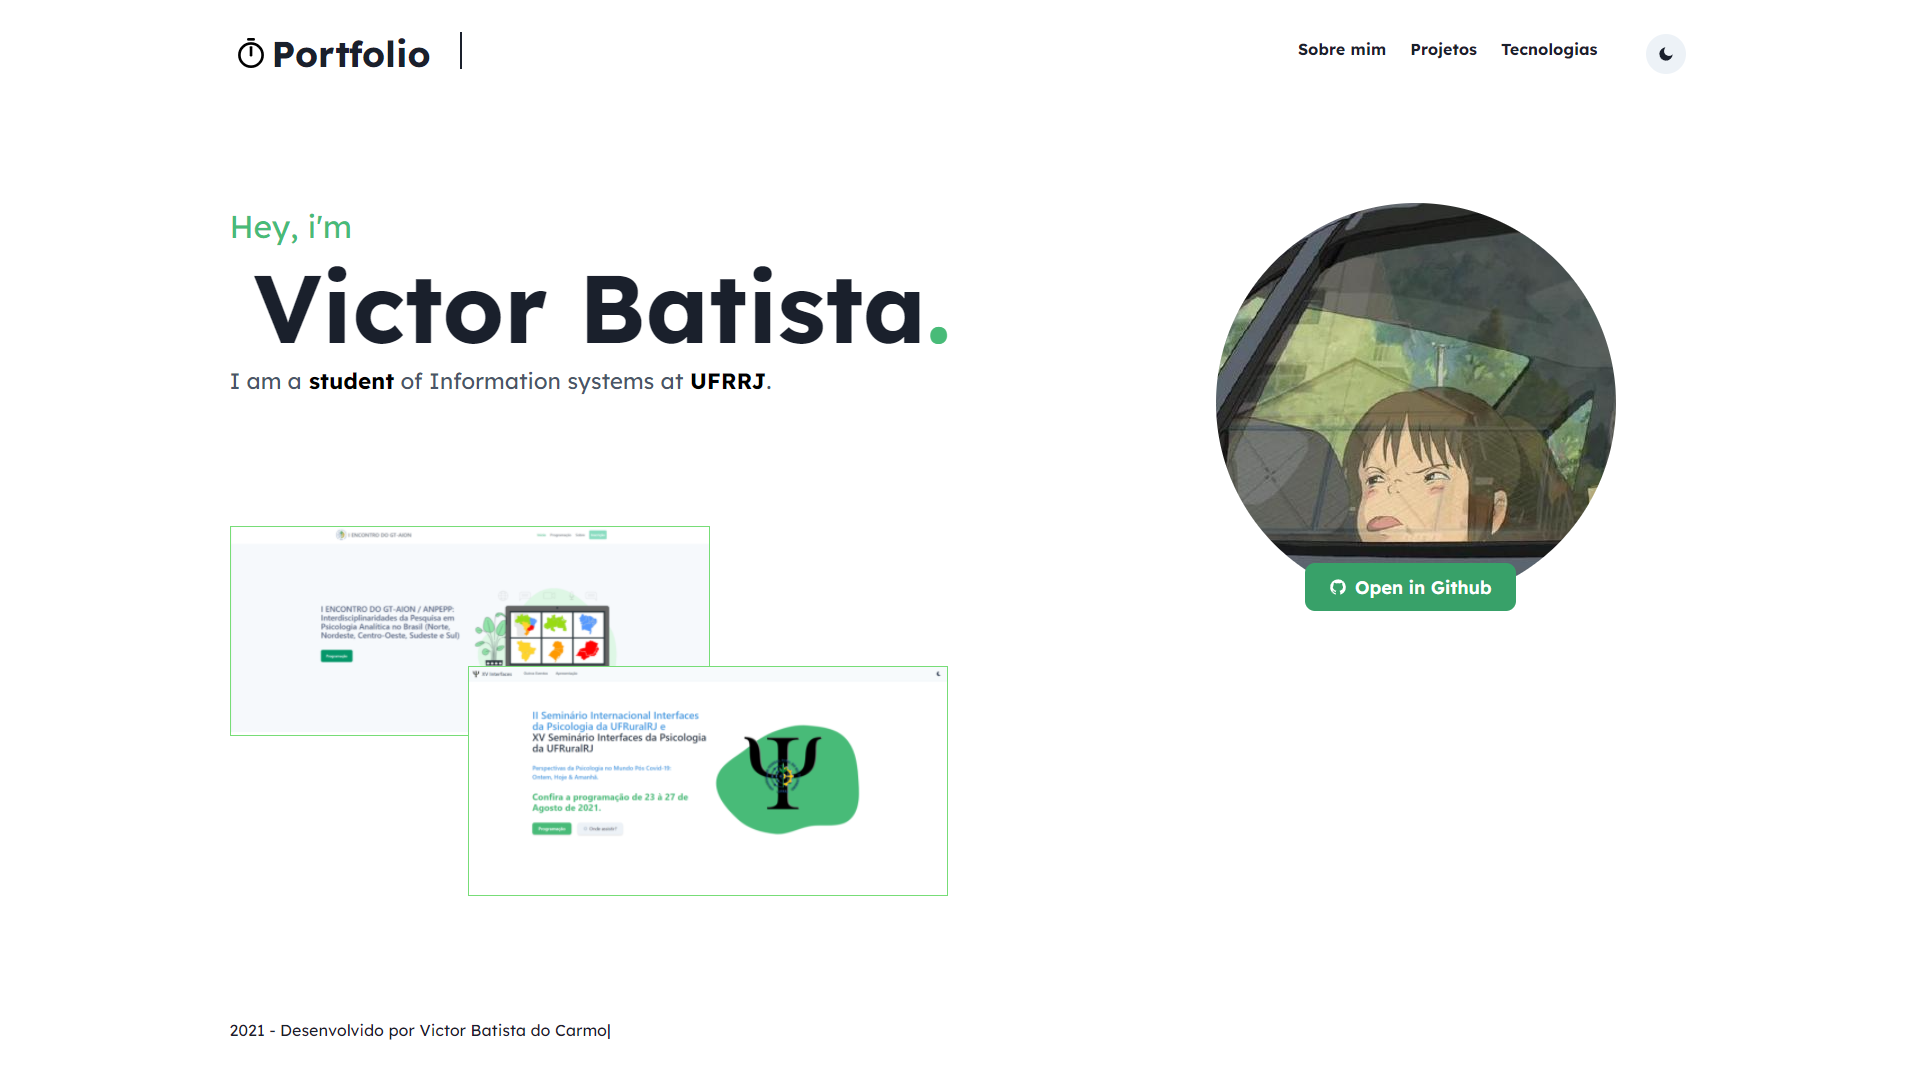
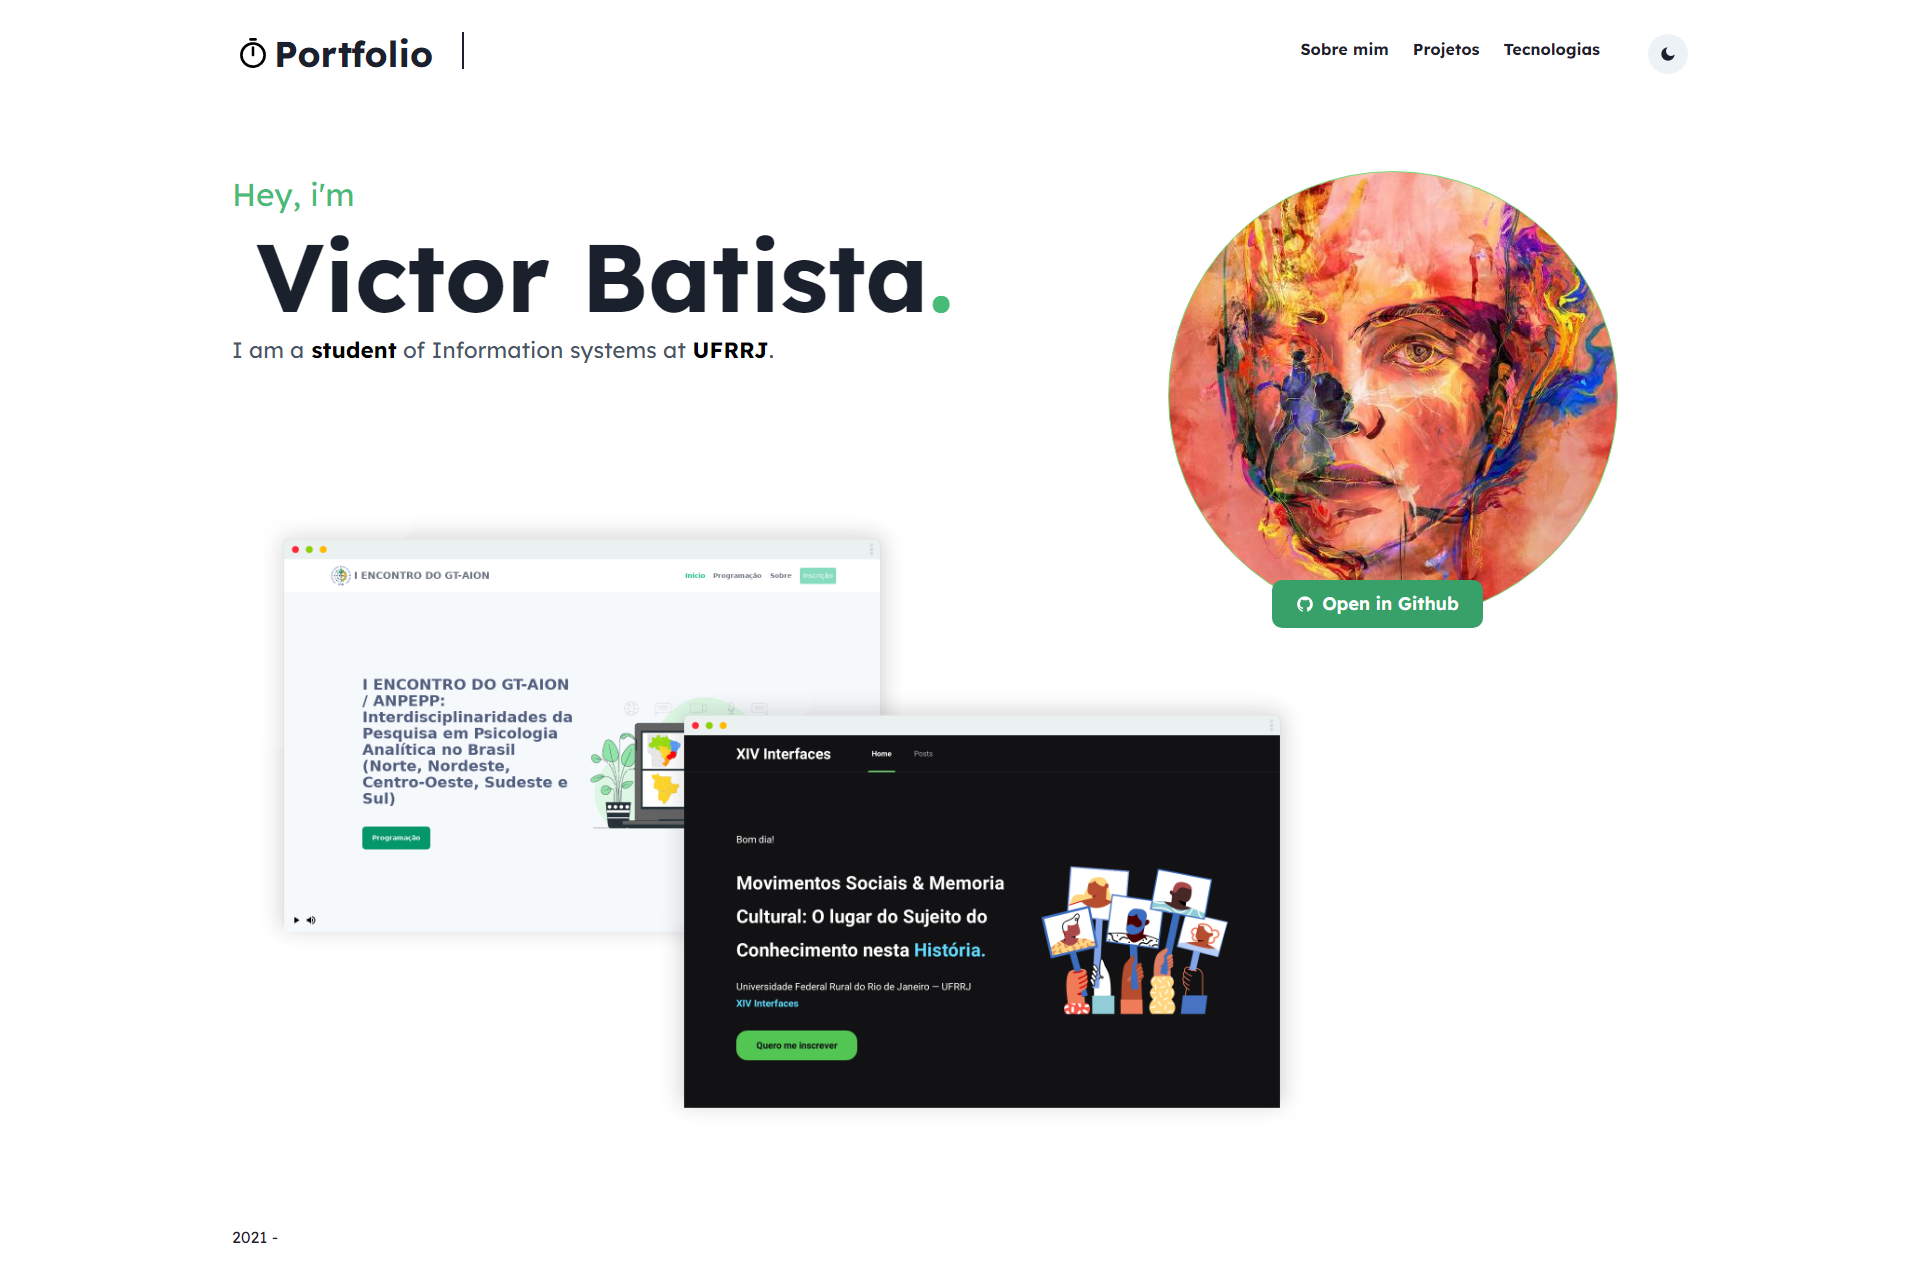
Alterando o src das imagens

diff --git a/src/components/Hero/index.tsx b/src/components/Hero/index.tsx
@@ -34,7 +34,12 @@ export default function Hero({ avatarUrl }: HeroProps) {
   });
   return (
     <>
-      <Grid mt="24" minH={{base:"100%", sm:"", lg:"80vh", xl:"110vh"}} templateColumns={{ md: "1fr 1fr" }} position="relative">
+      <Grid
+        mt="24"
+        minH={{ base: "100%", sm: "", lg: "80vh", xl: "110vh" }}
+        templateColumns={{ md: "1fr 1fr" }}
+        position="relative"
+      >
         <Box>
           <Text fontSize="1.975rem" fontWeight="normal" color="green.400">
             Hey, i&apos;m
@@ -69,12 +74,12 @@ export default function Hero({ avatarUrl }: HeroProps) {
             </Text>
             .
           </Text>
-          <Grid mt="32"  gridTemplateColumns={{ md: "1fr 1fr", lg: "1fr" }}>
+          <Grid mt="32" gridTemplateColumns={{ md: "1fr 1fr", lg: "1fr" }}>
             <Box display={variant}>
               <Box position="absolute">
                 <Image
                   maxW={{ md: "0", lg: "400px", xl: "700px" }}
-                  src="https://2s9e3bif52.execute-api.eu-central-1.amazonaws.com/production/screenshot?url=https%3A%2F%2Festudando-next-js.vercel.app%2F"
+                  src="./gt-aion.png"
                 />
               </Box>
               <Box
@@ -84,7 +89,7 @@ export default function Hero({ avatarUrl }: HeroProps) {
               >
                 <Image
                   maxW={{ lg: "400px", xl: "700px" }}
-                  src="https://2s9e3bif52.execute-api.eu-central-1.amazonaws.com/production/screenshot?url=https%3A%2F%2Fr1.ufrrj.br%2Fseminariopsi%2Fgt-aion%2F2021%2F"
+                  src="./interfaces.png"
                 />
               </Box>
             </Box>
@@ -96,7 +101,7 @@ export default function Hero({ avatarUrl }: HeroProps) {
           borderRadius="50%"
           border="1px solid #77dd77"
           position="absolute"
-          bottom={{md:"100px", lg:"auto"}}
+          bottom={{ md: "100px", lg: "auto" }}
           backgroundImage={`url(${avatarUrl})`}
           backgroundRepeat="no-repeat"
           backgroundSize="cover"
@@ -105,7 +110,7 @@ export default function Hero({ avatarUrl }: HeroProps) {
           <Button
             as="a"
             position="absolute"
-            bottom={{ base:"-200px", sm: "-200px", md: "-2" }}
+            bottom={{ base: "-200px", sm: "-200px", md: "-2" }}
             colorScheme="green"
             right={{ md: "-5%", lg: "25%", xl: "30%" }}
             href={repoLink}

diff --git a/src/components/Slider/embla.tsx b/src/components/Slider/embla.tsx
@@ -1,10 +1,15 @@
-import React from "react";
+import React, { ReactNode } from "react";
 /* eslint-disable prettier/prettier */
 import { Box, useBreakpointValue } from "@chakra-ui/react";
 import useEmblaCarousel from "embla-carousel-react";
 import Autoplay from "embla-carousel-autoplay";
 
-export default function Embla({ children }: any) {
+type SlideProps = {
+  children?: ReactNode;
+};
+
+
+export default function Embla({ children }: SlideProps){
   const plugins = [Autoplay({ delay: 4000 })];
   const [emblaRef] = useEmblaCarousel({ loop: true }, plugins);
 

diff --git a/src/components/Slider/index.tsx b/src/components/Slider/index.tsx
@@ -1,10 +1,14 @@
-import React from "react";
+import React, { ReactNode } from "react";
 /* eslint-disable prettier/prettier */
 import Embla from "./embla";
 import EmblaContainer from "./embla";
-import EmblaSlide from "./emblaSlide";
 
-export default function index(props: any) {
+type SlideProps = {
+  children?: ReactNode;
+};
+
+
+export default function index(props: SlideProps) {
   return (
     <>
       <Embla>

diff --git a/src/components/Slider/emblaContainer.tsx b/src/components/Slider/emblaContainer.tsx
@@ -1,7 +1,11 @@
 import { Flex } from "@chakra-ui/react";
-import React from "react";
+import React, { ReactNode } from "react";
 
-export default function EmblaContainer({children}: any) {
+type SlideProps = {
+  children?: ReactNode;
+};
+
+export default function EmblaContainer({children}: SlideProps) {
   return (
     <>
         <Flex className="embla__container">

diff --git a/src/components/Slider/emblaSlide.tsx b/src/components/Slider/emblaSlide.tsx
@@ -24,7 +24,6 @@ export default function EmblaSlide(props: SlideProps) {
   return (
     <>
       <Box className="embla__slide" position="relative" maxW="100%" flex={`0 0 ${props.size}`}>
-
         {props.children}
       </Box>
     </>
